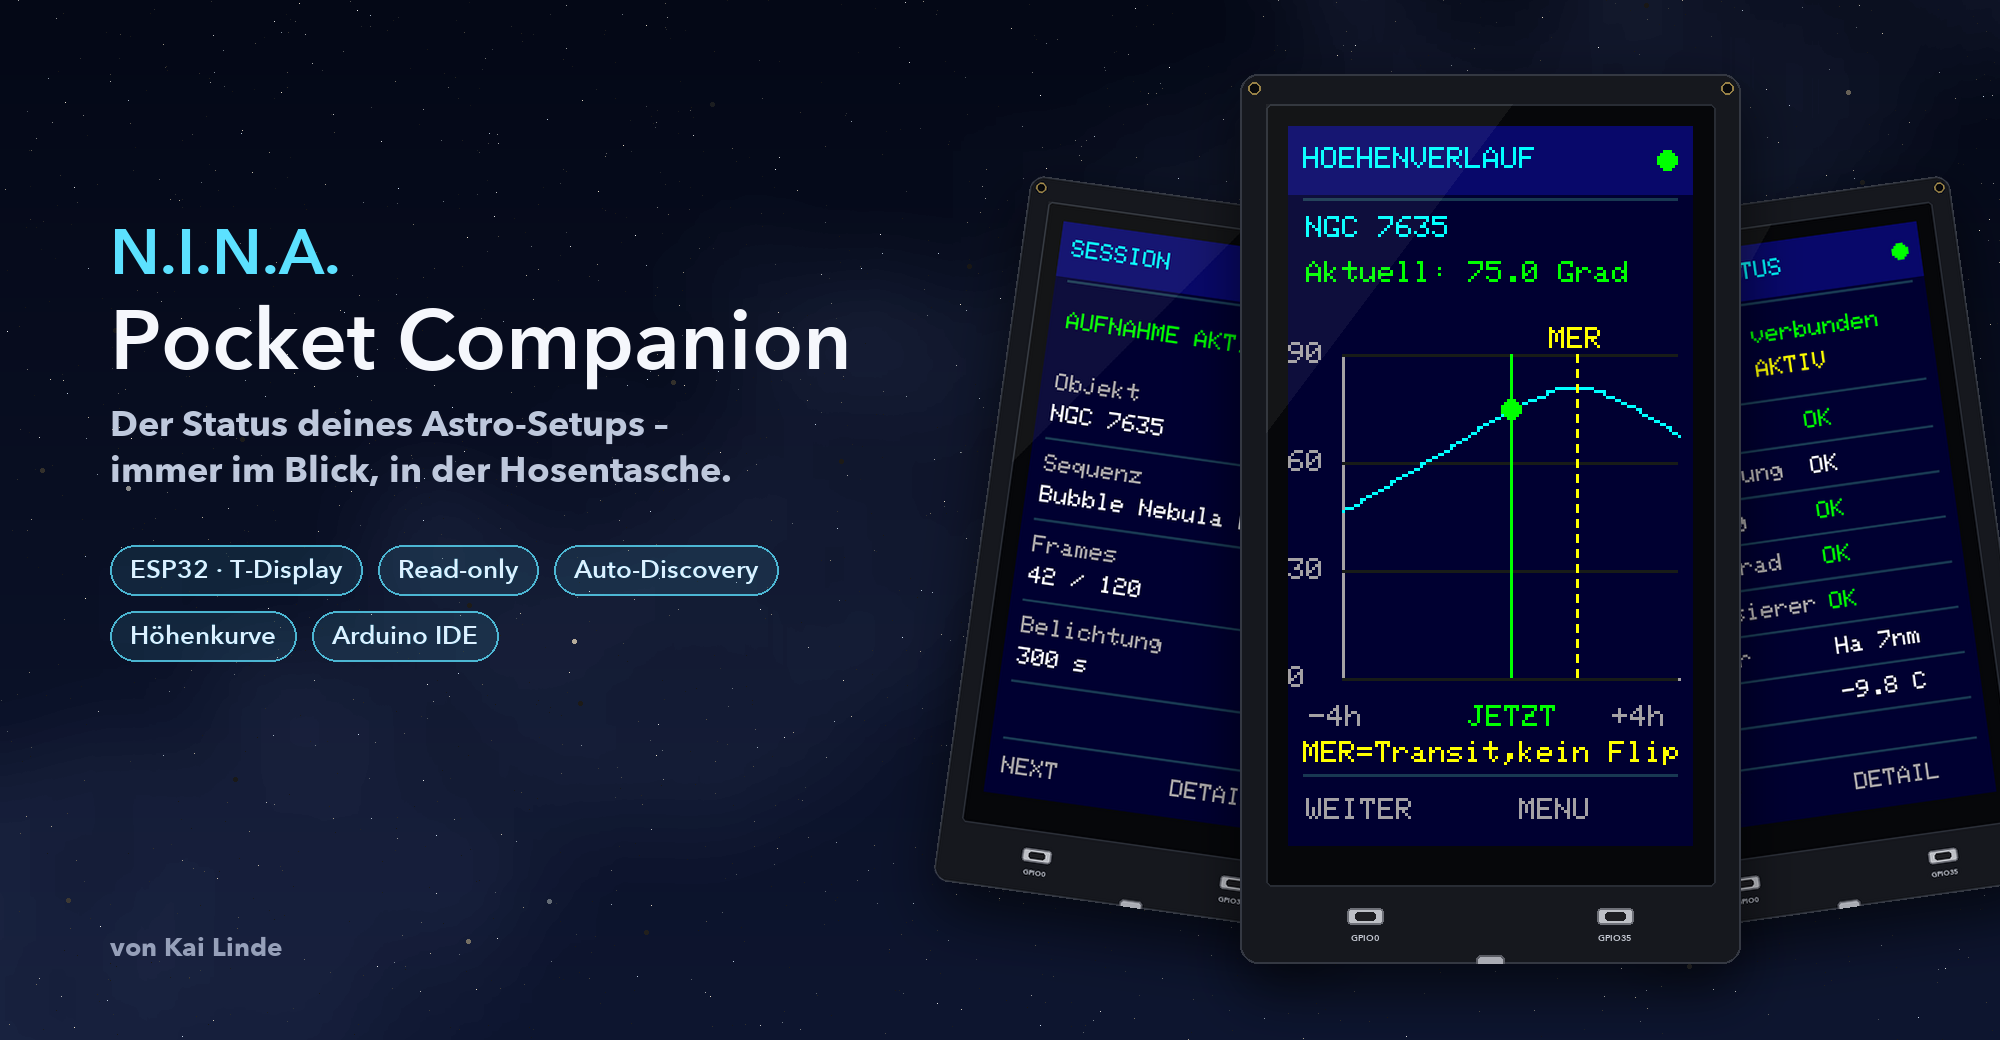
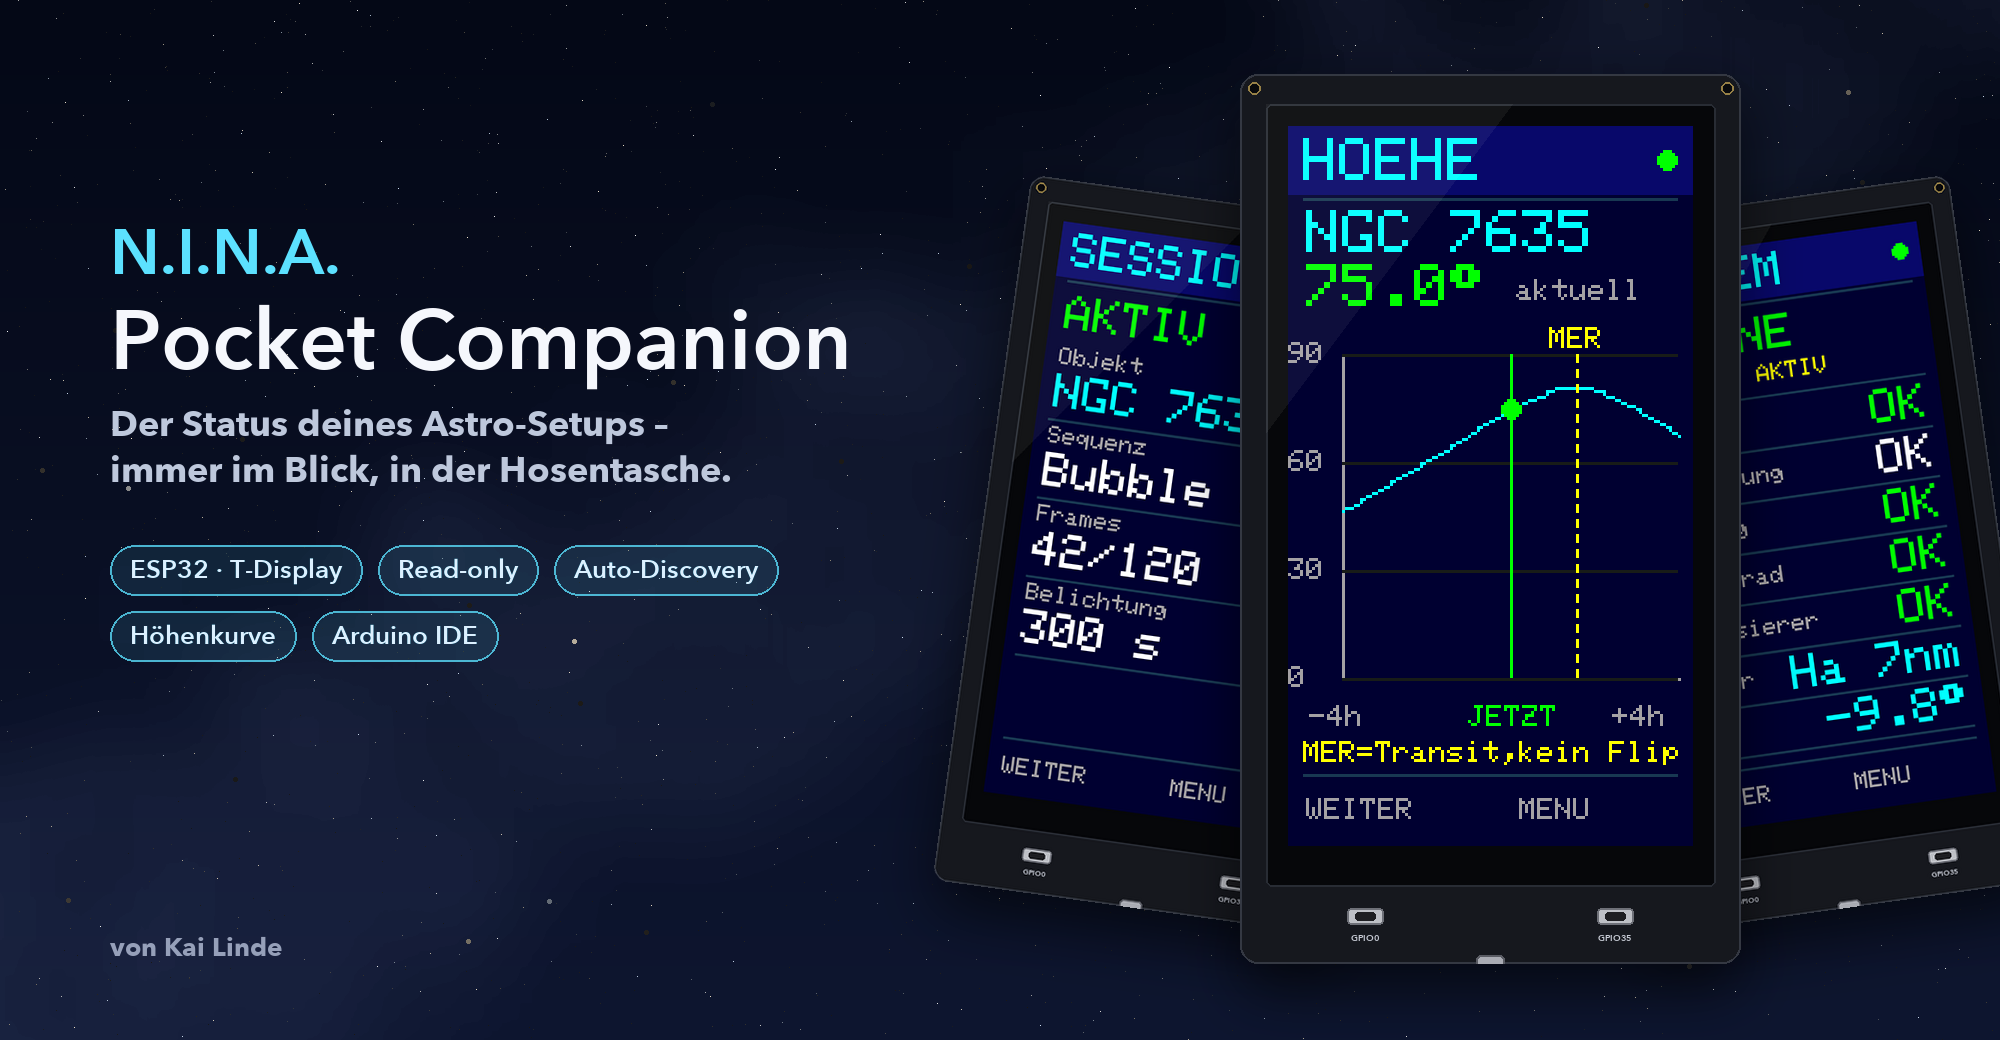
Larger display font, rotated screen, secrets.h for private settings
- Display rotated by 180 degrees (USB-C and buttons at the bottom)
- Values and titles in double-size font, labels stay small
- Footer hints now WEITER / MENU
- WiFi credentials and site location moved to gitignored secrets.h
  (template: secrets_example.h); build/ is ignored as well
- Mockups re-rendered with the new layout

diff --git a/tools/render_mockups.py b/tools/render_mockups.py
@@ -37,6 +37,7 @@ def rgb565(c):
 BG, PANEL, CYAN, GREEN = 0x0006, 0x084D, 0x07FF, 0x07E0
 YELLOW, WHITE, GRAY, RED = 0xFFE0, 0xFFFF, 0xA514, 0xF800
 LINE, GRID = 0x19CA, 0x18E3
+DEG = "\xf7"  # degree sign in the classic GFX font (char 247)
 
 
 def load_font(path):
@@ -128,7 +129,10 @@ class Screen:
         self._circle_helper(x + r, y + r, r, 2, h - 2 * r - 1, c)
 
     def draw_char(self, x, y, ch, fg, bg, s):
-        base = ord(ch) * 5
+        code = ord(ch)
+        if code >= 176:  # Adafruit GFX default (non-CP437) glyph offset
+            code += 1
+        base = code * 5
         for i in range(6):
             bits = self.font[base + i] if i < 5 else 0
             for j in range(8):
@@ -180,97 +184,98 @@ class Pages:
     def header(self, title):
         self.s.fill_screen(BG)
         self.s.fill_rect(0, 0, W, 23, PANEL)
-        self.text(5, 7, cut(title, 18), CYAN, 1, PANEL)
+        self.text(5, 4, cut(title, 9), CYAN, 2, PANEL)
         self.s.fill_circle(126, 11, 3, GREEN)
         self.sep(24)
 
-    def footer(self, left="NEXT", right="DETAIL"):
+    def footer(self, left="WEITER", right="MENU"):
         self.sep(216)
         self.text(6, 224, left, GRAY)
         self.text(77, 224, right, GRAY)
 
     def kv(self, y, label, value, c=WHITE):
         self.text(6, y, cut(label, 20), GRAY)
-        self.text(6, y + 13, cut(value, 21), c)
-        self.sep(y + 27)
+        self.text(6, y + 11, cut(value, 10), c, 2)
+        self.sep(y + 30)
 
     def row(self, y, label, val, c=WHITE):
-        self.text(6, y, cut(label, 12), GRAY)
-        self.text(77, y, cut(val, 9), c)
-        self.sep(y + 13)
+        val = cut(val, 6)
+        self.text(6, y + 5, cut(label, 12), GRAY)
+        self.text(129 - 12 * len(val), y + 1, val, c, 2)
+        self.sep(y + 19)
 
     def home(self, cursor=0):
-        self.header("N.I.N.A. POCKET")
-        self.text(6, 37, "Companion", CYAN, 2)
-        self.text(6, 63, "N.I.N.A. ONLINE", GREEN)
-        self.text(6, 78, "NUR STATUS/READ-ONLY", YELLOW)
-        names = ["System", "Session", "Kamera", "Guiding", "Filter", "Objekt", "Hoehenverlauf", "Info"]
+        self.header("N.I.N.A.")
+        names = ["System", "Session", "Kamera", "Guiding", "Filter", "Objekt", "Hoehe", "Info"]
         for i, n in enumerate(names):
-            y = 99 + i * 14
-            if i == cursor:
-                self.s.fill_round_rect(3, y - 2, 129, 13, 3, PANEL)
-            self.text(8, y, ("> " if i == cursor else "  ") + n, YELLOW if i == cursor else WHITE,
-                      1, PANEL if i == cursor else BG)
+            y = 29 + i * 20
+            sel = i == cursor
+            if sel:
+                self.s.fill_round_rect(3, y - 2, 129, 19, 4, PANEL)
+            self.text(10, y, n, YELLOW if sel else WHITE, 2, PANEL if sel else BG)
+        self.text(6, 195, "N.I.N.A. ONLINE", GREEN)
         self.footer("WEITER", "OEFFNEN")
 
     def system(self):
-        self.header("SYSTEMSTATUS")
-        self.text(6, 34, "N.I.N.A. verbunden", GREEN)
-        self.text(6, 48, "Session: AKTIV", YELLOW)
-        self.sep(65)
-        self.row(72, "Kamera", yes_no(D["camera"]), GREEN)
-        self.row(91, "Montierung", "OK")
-        self.row(110, "Guiding", yes_no(D["guider"]), GREEN)
-        self.row(129, "Filterrad", yes_no(D["wheel"]), GREEN)
-        self.row(148, "Fokussierer", yes_no(D["focuser"]), GREEN)
-        self.row(167, "Filter", D["filter"])
-        self.row(186, "Temp", f"{D['temp']:.1f} C")
+        self.header("SYSTEM")
+        self.text(6, 30, "ONLINE", GREEN, 2)
+        self.text(6, 50, "Session: AKTIV", YELLOW)
+        self.sep(63)
+        self.row(66, "Kamera", "OK", GREEN)
+        self.row(87, "Montierung", "OK")
+        self.row(108, "Guiding", "OK", GREEN)
+        self.row(129, "Filterrad", "OK", GREEN)
+        self.row(150, "Fokussierer", "OK", GREEN)
+        self.row(171, "Filter", D["filter"], CYAN)
+        self.row(192, "Temp", f"{D['temp']:.1f}{DEG}", CYAN)
         self.footer()
 
     def session(self):
         self.header("SESSION")
-        self.text(7, 37, "AUFNAHME AKTIV", GREEN)
-        self.kv(63, "Objekt", D["target"])
-        self.kv(97, "Sequenz", D["sequence"])
-        self.kv(131, "Frames", f"{D['completed']} / {D['total']}")
-        self.kv(165, "Belichtung", f"{D['exposure']} s")
+        self.text(6, 30, "AKTIV", GREEN, 2)
+        self.kv(52, "Objekt", D["target"], CYAN)
+        self.kv(85, "Sequenz", D["sequence"])
+        self.kv(118, "Frames", f"{D['completed']}/{D['total']}")
+        self.kv(151, "Belichtung", f"{D['exposure']} s")
         self.footer()
 
     def camera(self):
         self.header("KAMERA")
-        self.text(6, 36, cut(D["camera_name"], 18), CYAN)
-        self.kv(60, "Verbindung", "OK", GREEN)
-        self.kv(96, "Ist-Temperatur", f"{D['temp']:.1f} C", CYAN)
-        self.kv(132, "Soll-Temperatur", f"{D['target_temp']:.1f} C")
+        self.text(6, 30, cut(D["camera_name"], 21), CYAN)
+        self.kv(44, "Verbindung", "OK", GREEN)
+        self.kv(77, "Ist-Temperatur", f"{D['temp']:.1f}{DEG}C", CYAN)
+        self.kv(110, "Soll-Temperatur", f"{D['target_temp']:.1f}{DEG}C")
         self.footer()
 
     def guiding(self):
         self.header("GUIDING")
-        self.kv(42, "Guider", "OK", GREEN)
-        self.kv(84, "Gesamt RMS", f"{D['rms']:.2f} arcsec", GREEN)
-        self.text(6, 164, "Nur N.I.N.A. Daten", GRAY)
+        self.kv(32, "Guider", "OK", GREEN)
+        self.kv(65, "RMS gesamt", f"{D['rms']:.2f}\"", GREEN)
+        self.text(6, 110, "Nur N.I.N.A. Daten", GRAY)
         self.footer()
 
     def filter(self):
-        self.header("FILTERRAD")
-        self.kv(43, "Verbindung", "OK", GREEN)
-        self.kv(87, "Aktiver Filter", D["filter"], CYAN)
-        self.text(7, 166, "Nur Anzeige", GRAY)
+        self.header("FILTER")
+        self.kv(32, "Verbindung", "OK", GREEN)
+        self.kv(65, "Aktiver Filter", D["filter"], CYAN)
+        self.text(6, 110, "Nur Anzeige", GRAY)
         self.footer()
 
     def object(self):
         self.header("OBJEKT")
-        self.kv(40, "Ziel", D["target"], CYAN)
-        self.kv(76, "Montierung Hoehe", f"{D['alt']:.1f} Grad")
-        self.kv(112, "Azimut", f"{D['az']:.1f} Grad")
-        self.kv(148, "Koordinaten", f"{D['ra']:.2f} h / {D['dec']:.1f}")
+        self.kv(30, "Ziel", D["target"], CYAN)
+        self.kv(63, "Hoehe (Montierung)", f"{D['alt']:.1f}{DEG}")
+        self.kv(96, "Azimut", f"{D['az']:.1f}{DEG}")
+        self.kv(129, "RA", f"{D['ra']:.2f} h")
+        self.kv(162, "Dec", f"{D['dec']:.1f}{DEG}")
         self.footer()
 
     def altitude(self, now):
-        self.header("HOEHENVERLAUF")
-        self.text(6, 30, cut(D["target"], 19), CYAN)
+        self.header("HOEHE")
+        self.text(6, 28, cut(D["target"], 10), CYAN, 2)
         cur = altitude_at(now, D["ra"], D["dec"])
-        self.text(6, 45, f"Aktuell: {cur:.1f} Grad", GREEN)
+        self.text(6, 46, f"{cur:.1f}{DEG}", GREEN, 2)
+        self.text(76, 51, "aktuell", GRAY)
         x0, x1, y0, y1 = 18, 130, 76, 184
         s = self.s
         s.line(x0, y0, x0, y1, GRAY)
@@ -308,15 +313,15 @@ class Pages:
 
     def about(self):
         self.header("INFO")
-        self.text(6, 36, "N.I.N.A. POCKET", CYAN)
-        self.text(6, 52, "Companion v0.1", WHITE)
-        self.text(6, 75, "READ-ONLY", GREEN)
+        self.text(6, 30, "N.I.N.A. POCKET", CYAN)
+        self.text(6, 43, "Companion v0.1", WHITE)
+        self.text(6, 64, "READ-ONLY", GREEN, 2)
         self.text(6, 99, "WiFi:", GRAY)
         self.text(6, 112, WIFI_IP)
         self.text(6, 137, "N.I.N.A. PC (auto):", GRAY)
         self.text(6, 150, NINA_IP)
         self.text(6, 171, "Port: 1888")
-        self.text(6, 192, "LIVE", GREEN)
+        self.text(6, 190, "LIVE", GREEN, 2)
         self.footer()
 
 

diff --git a/NINA_Pocket_Companion/secrets_example.h b/NINA_Pocket_Companion/secrets_example.h
@@ -1,0 +1,8 @@
+// Copy this file to secrets.h (same folder) and fill in your values.
+// secrets.h is listed in .gitignore, so WiFi credentials and your location stay private.
+#define SECRET_WIFI_SSID "YOUR_WIFI_SSID"
+#define SECRET_WIFI_PASS "YOUR_WIFI_PASSWORD"
+// Observatory coordinates for the altitude plot (decimal degrees, east longitude positive).
+// Leave as NAN until set; the plot is hidden instead of showing a wrong curve.
+#define SECRET_SITE_LAT NAN
+#define SECRET_SITE_LON NAN

diff --git a/README.md b/README.md
@@ -102,7 +102,7 @@ Dokumentation: [LilyGO T-Display Wiki](https://wiki.lilygo.cc/products/t-display
    - `ArduinoJson` (Version 7)
 
    Adafruit BusIO wird als Abhängigkeit mitinstalliert.
-3. [`NINA_Pocket_Companion/NINA_Pocket_Companion.ino`](NINA_Pocket_Companion/NINA_Pocket_Companion.ino) öffnen und konfigurieren (siehe unten).
+3. [`NINA_Pocket_Companion/NINA_Pocket_Companion.ino`](NINA_Pocket_Companion/NINA_Pocket_Companion.ino) öffnen, `secrets.h` anlegen und konfigurieren (siehe unten).
 4. Board **ESP32 Dev Module** und die richtige serielle Schnittstelle wählen, hochladen. Im Zweifel Flash 4 MB, PSRAM disabled.
 5. In N.I.N.A. das Plugin **Advanced API** aktivieren. Es muss vom T-Display im selben Netzwerk erreichbar sein (Standard-Port 1888, ggf. Windows-Firewall für lokalen Zugriff freigeben).
 
@@ -111,19 +111,24 @@ Dokumentation: [LilyGO T-Display Wiki](https://wiki.lilygo.cc/products/t-display
 
 ## ⚙ Konfiguration
 
-Alle Einstellungen stehen oben im Sketch im Block `CONFIGURE HERE`:
+**Private Daten** – WLAN-Zugang und Standort – gehören in `NINA_Pocket_Companion/secrets.h`. Die Datei steht in der `.gitignore` und landet nie auf GitHub. Kopiere dazu [`secrets_example.h`](NINA_Pocket_Companion/secrets_example.h) nach `secrets.h` und trage deine Werte ein:
+
+| Eintrag in `secrets.h` | Bedeutung |
+|---|---|
+| `SECRET_WIFI_SSID`, `SECRET_WIFI_PASS` | Zugangsdaten deines WLANs |
+| `SECRET_SITE_LAT`, `SECRET_SITE_LON` | Standort deiner Sternwarte für die Höhenkurve in Dezimalgrad, Länge Ost positiv. Absichtlich `NAN` vorbelegt, damit keine falsche Kurve erscheint. |
+
+Alles Weitere steht oben im Sketch im Block `CONFIGURE HERE`:
 
 | Konstante | Bedeutung |
 |---|---|
-| `WIFI_SSID`, `WIFI_PASS` | Zugangsdaten deines WLANs |
 | `NINA_HOST` | IP des N.I.N.A.-PCs – **leer lassen für Auto-Discovery** |
 | `NINA_PORT` | Port der Advanced API (Standard `1888`) |
-| `SITE_LAT_DEG`, `SITE_LON_DEG` | Standort deiner Sternwarte für die Höhenkurve, Länge Ost positiv. Absichtlich `NAN` vorbelegt, damit keine falsche Kurve erscheint. |
 | `DEMO_MODE` | `true` zeigt Demodaten ohne Netzwerk |
 | `POLL_MS` | Abfrageintervall in Millisekunden (Standard 8000) |
 
-> [!WARNING]
-> Trage echte WLAN-Zugangsdaten nicht in einen öffentlichen Commit ein.
+> [!TIP]
+> Fehlt `secrets.h`, kompiliert der Sketch trotzdem – mit Platzhaltern, also ohne WLAN-Verbindung.
 
 ### 📡 Auto-Discovery
 
